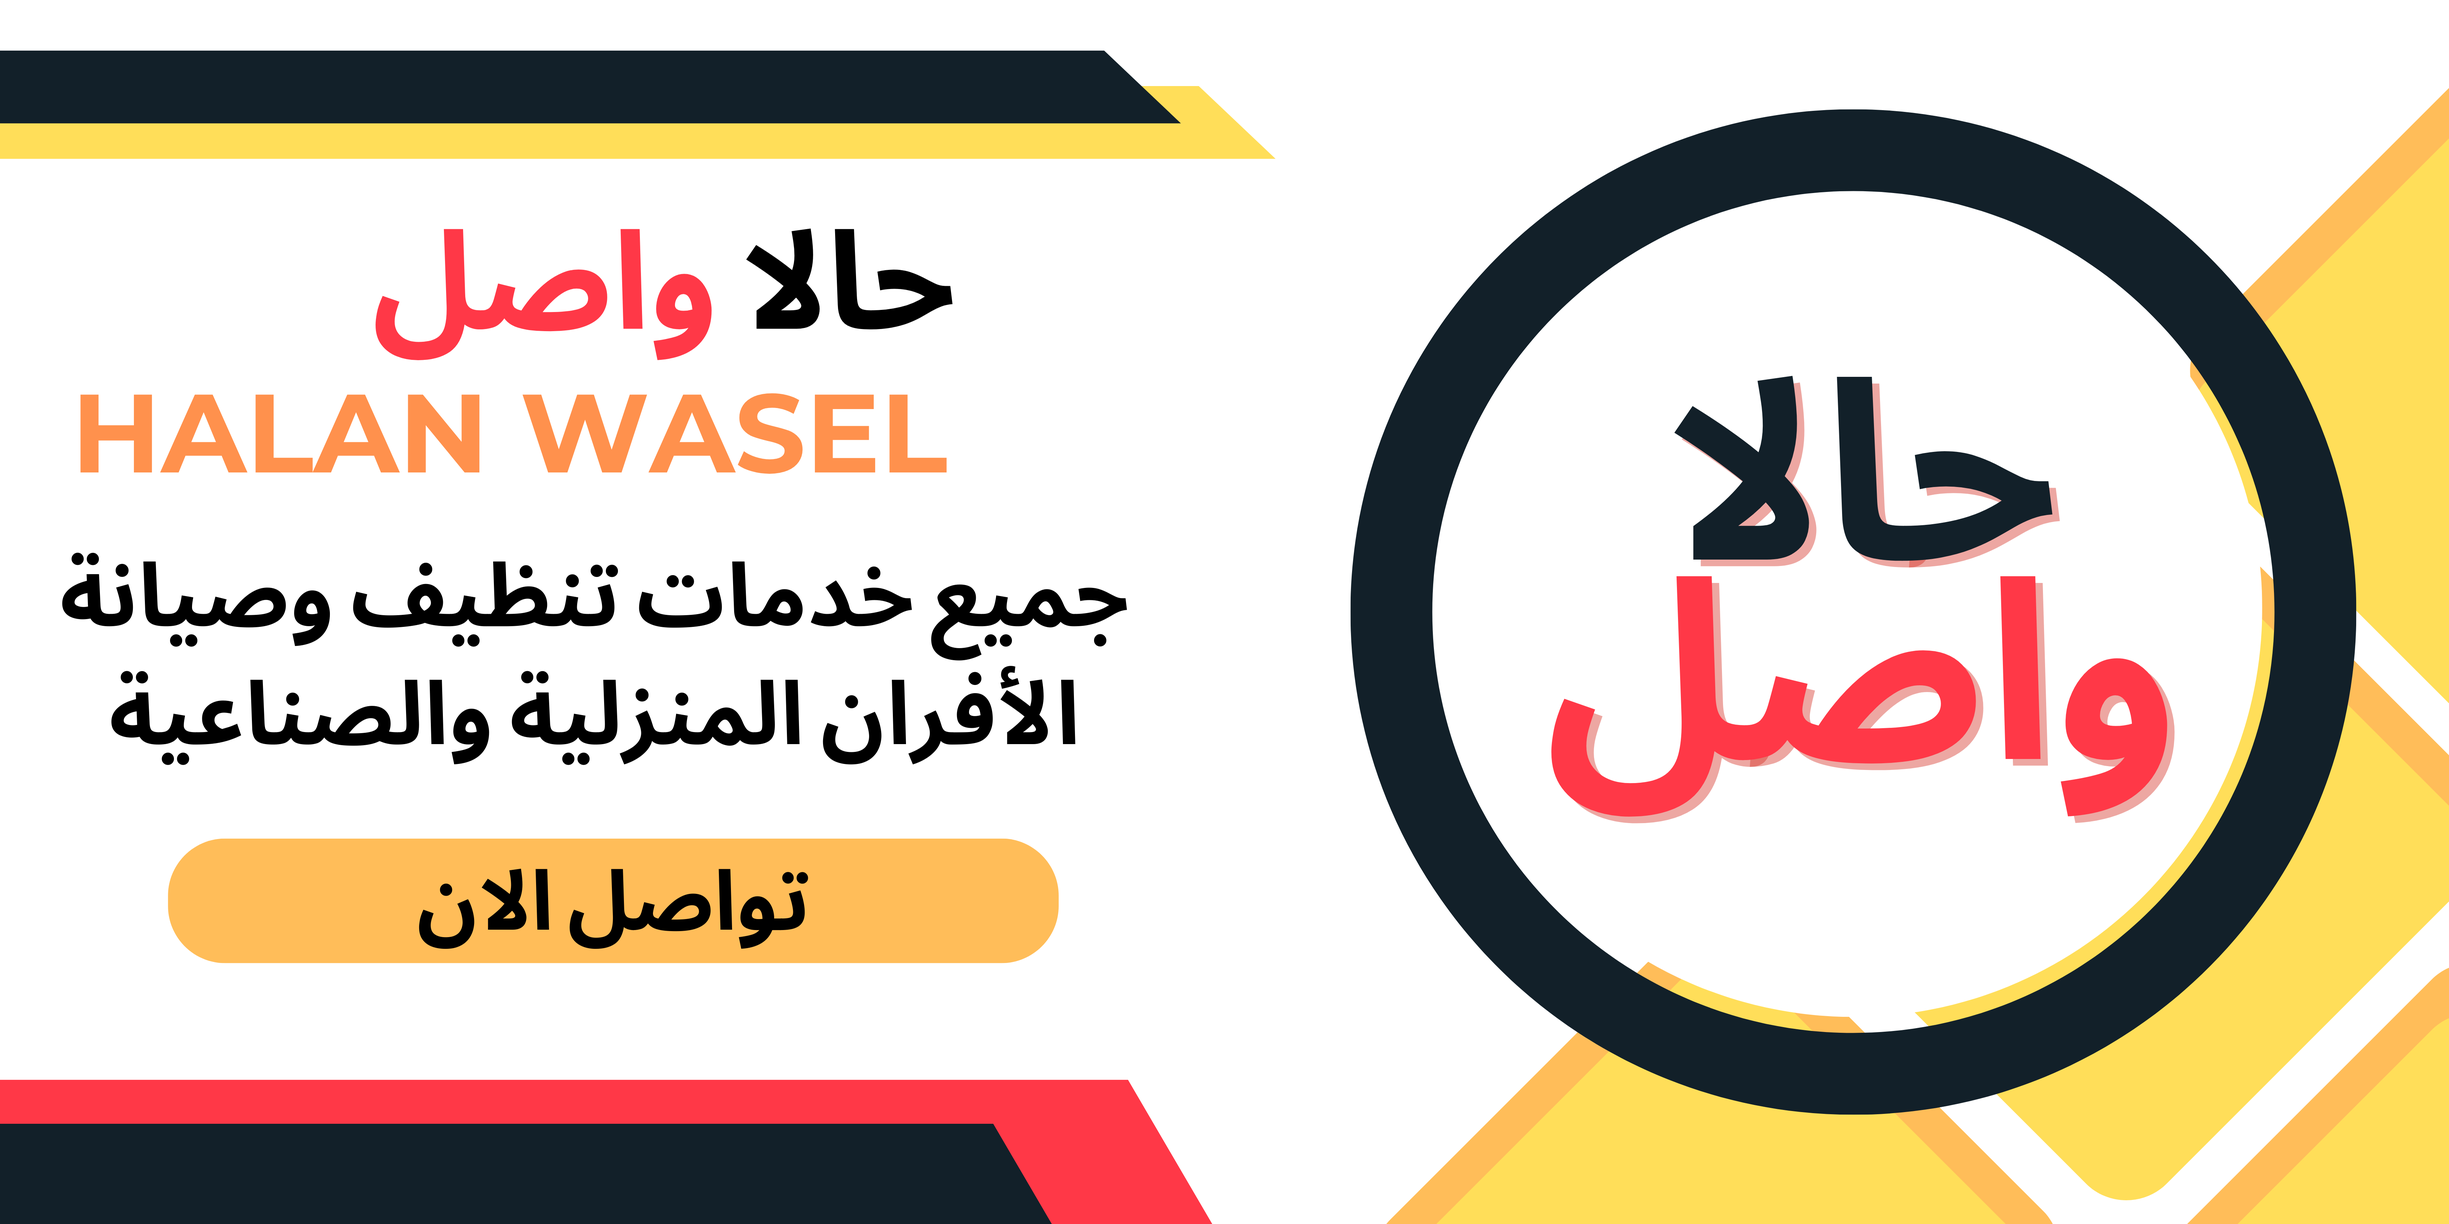
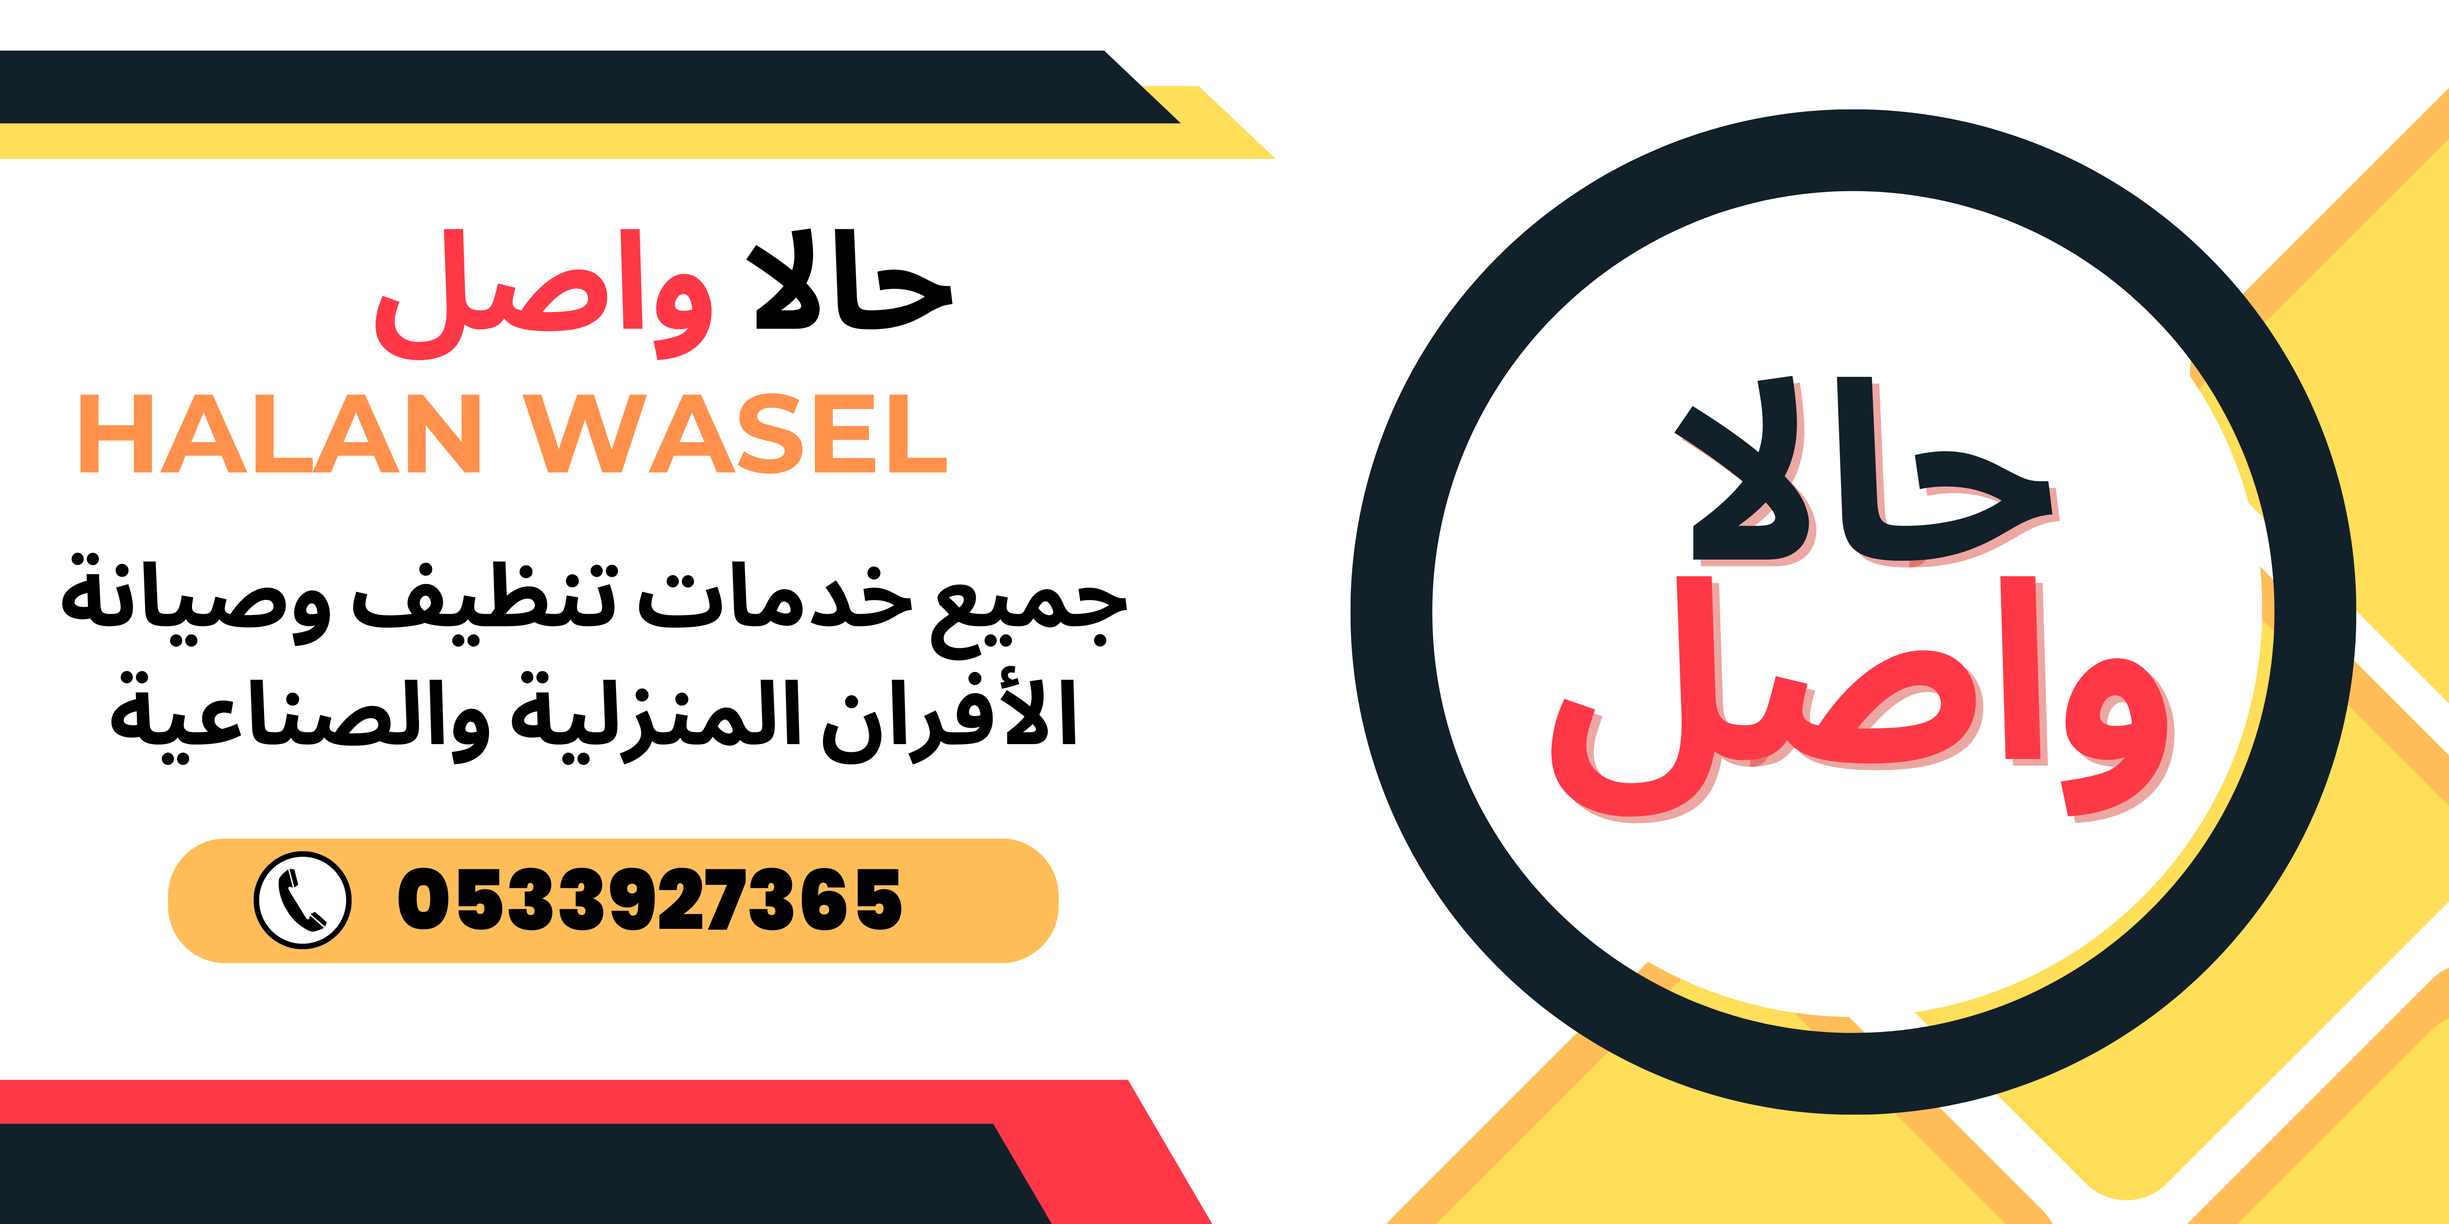
Add files via upload

Changed region(s): [[0.0938, 0.6875, 0.375, 0.7812]]

diff --git a/index.html b/index.html
@@ -25,10 +25,14 @@
     <script src="https://cdnjs.cloudflare.com/ajax/libs/gsap/3.11.4/CSSRulePlugin.min.js"></script>
     <script src="https://kit.fontawesome.com/3f5e60a4f0.js" crossorigin="anonymous"></script>
 
-
     <!-- Google Tag Manager -->
-  
-    <!-- End Google Tag Manager -->
+    <script>(function(w,d,s,l,i){w[l]=w[l]||[];w[l].push({'gtm.start':
+    new Date().getTime(),event:'gtm.js'});var f=d.getElementsByTagName(s)[0],
+    j=d.createElement(s),dl=l!='dataLayer'?'&l='+l:'';j.async=true;j.src=
+    'https://www.googletagmanager.com/gtm.js?id='+i+dl;f.parentNode.insertBefore(j,f);
+    })(window,document,'script','dataLayer','GTM-59XB4ZF');</script>
+    <!-- End Google Tag Manage -->
+
     <style>
         
         .nav-item a{
@@ -95,6 +99,34 @@
 
 </head>
 <body>
+
+    <!-- start icons -->
+    <a href="https://wa.me/+966533927365" target="_blank" style="position: fixed;top: 87%;right: 0px;transform: translate(-50%, -50%);cursor: pointer;z-index: 1;">
+        <i style="font-size: 60px;background: green;color: white;padding: 6px 10px;border-radius: 50%;" class="fa-brands fa-whatsapp"></i>
+    </a>
+
+    <a href="tel:+966533927365" target="_blank" style="width: 250px;
+    background: #9e11b5;
+    color: white;
+    font-weight: bold;
+    font-size: 30px;
+    padding: 0px 20px;
+    text-align: center;
+    position: fixed;
+    border-radius: 20px;
+    top: 95%;
+    right: -100px;
+    transform: translate(-50%, -50%);
+    cursor: pointer;
+    z-index: 1;
+    text-decoration: none;">
+    <i class="fa-solid fa-phone"></i>
+         اتصل بنا الان
+        
+    </a>
+
+    <!-- end icons -->
+
     
     <!-- Stat nav -->
     <div class="bg-white" style="position: fixed; z-index: 2; width: 100%; border-bottom: 1px solid rgba(128, 128, 128, 0.485);">
@@ -133,9 +165,11 @@
     <!-- End nav -->
 
     <div style="height: 60px;"></div>
-    <!-- start slider -->
-    <img style="width: 100%; margin-bottom: 20px; max-height: 800px;" src="./Main-Page-Folder/images/Banner.png" id="headerImg">
-    <!-- end slider -->
+    <!-- start banner -->
+    <a href="tel:+966533927365">
+        <img style="width: 100%; margin-bottom: 20px; max-height: 800px;" src="./Main-Page-Folder/images/Banner.png" id="headerImg">
+    </a>
+    <!-- end banner -->
 
     <!-- start section -->
 
@@ -163,64 +197,82 @@
 
         <div class="grid" >
 
-            <div class="cardPage" id="cardGif">
-                <i style="font-size: 45px;" class="fa-solid fa-soap"></i>
-                <h5>
-                    تنظيف الافران
-                </h5>
-                <p style="font-weight: bold;">
-                    يقوم فريق العمل بتنظيف الأفران من الداخل والخارج بما في ذلك إزالة الأوساخ والشحوم والروائح الكريهة 
-                </p>
-            </div>
+            <a href="https://wa.me/+966533927365" target="_blank" style="text-decoration: none; color: black;">
+                <div class="cardPage" id="cardGif">
+                    <i style="font-size: 45px;" class="fa-solid fa-soap"></i>
+                    <h5>
+                        تنظيف الافران
+                    </h5>
+                    <p style="font-weight: bold;">
+                        يقوم فريق العمل بتنظيف الأفران من الداخل والخارج بما في ذلك إزالة الأوساخ والشحوم والروائح الكريهة 
+                    </p>
+                </div>
+            </a>
 
-            <div class=".grid cardPage" id="cardGif">
-                <i style="font-size: 45px;" class="fa-sharp fa-solid fa-screwdriver-wrench"></i>
-                <h5>
-                    صيانة الأفران
-                </h5>
-                <p style="font-weight: bold;">
-                    يتم فحص الأفران وإجراء الصيانة اللازمة للحفاظ على أدائها الأمثل، ويتم ذلك بفحص العناصر السخانة والشبكات والأجزاء الأخرى لضمان أنها تعمل بكفاءة.
-                </p>
-            </div>
+            
+            <a href="https://wa.me/+966533927365" target="_blank" style="text-decoration: none; color: black;">
+                <div class=".grid cardPage" id="cardGif">
+                    <i style="font-size: 45px;" class="fa-sharp fa-solid fa-screwdriver-wrench"></i>
+                    <h5>
+                        صيانة الأفران
+                    </h5>
+                    <p style="font-weight: bold;">
+                        يتم فحص الأفران وإجراء الصيانة اللازمة للحفاظ على أدائها الأمثل، ويتم ذلك بفحص العناصر السخانة والشبكات والأجزاء الأخرى لضمان أنها تعمل بكفاءة.
+                    </p>
+                </div>
+            </a>
 
-            <div class=".grid cardPage" id="cardGif">
-                <i style="font-size: 45px;" class="fa-sharp fa-solid fa-screwdriver"></i>
-                <h5>
-                    إصلاح الأفران
-                </h5>
-                <p style="font-weight: bold;">
-                    يتم إصلاح الأفران التالفة أو المعطلة، ويشمل ذلك استبدال العناصر السخانة أو إصلاح الأجزاء المكسورة أو الضعيفة.
-                </p>
-            </div>
+            <a href="https://wa.me/+966533927365" target="_blank" style="text-decoration: none; color: black;">
+                <div class=".grid cardPage" id="cardGif">
+                    <i style="font-size: 45px;" class="fa-sharp fa-solid fa-screwdriver"></i>
+                    <h5>
+                        إصلاح الأفران
+                    </h5>
+                    <p style="font-weight: bold;">
+                        يتم إصلاح الأفران التالفة أو المعطلة، ويشمل ذلك استبدال العناصر السخانة أو إصلاح الأجزاء المكسورة أو الضعيفة.
+                    </p>
+                </div>
+            </a>
 
 
-            <div class=".grid cardPage" id="cardGif">
-                <i style="font-size: 45px;" class="fa-solid fa-taxi"></i>
-                <h5>
-                    خدمات الصيانة الدورية
-                </h5>
-                <p style="font-weight: bold;">
-                    تهدف هذه الخدمات إلى الحفاظ على أداء الأفران بشكل مستمر والتأكد من سلامتها وعدم تعرض المستخدمين لأي مخاطر.                </p>
-            </div>
 
-            <div class=".grid cardPage" id="cardGif">
-                <i style="font-size: 45px;" class="fa-solid fa-comment-medical"></i>
-                <h5>
-                    تقديم النصائح والإرشادات
-                </h5>
-                <p style="font-weight: bold;">
-                    مكن للشركة تقديم النصائح والإرشادات للعملاء حول كيفية الحفاظ على الأفران وتجنب المشاكل المحتملة في المستقبل.                </p>
-            </div>
+            <a href="https://wa.me/+966533927365" target="_blank" style="text-decoration: none; color: black;">
+                <div class=".grid cardPage" id="cardGif">
+                    <i style="font-size: 45px;" class="fa-solid fa-taxi"></i>
+                    <h5>
+                        خدمات الصيانة الدورية
+                    </h5>
+                    <p style="font-weight: bold;">
+                        تهدف هذه الخدمات إلى الحفاظ على أداء الأفران بشكل مستمر والتأكد من سلامتها وعدم تعرض المستخدمين لأي مخاطر.                </p>
+                </div>
+            </a>
+            
 
-            <div class=".grid cardPage" id="cardGif">
-                <i style="font-size: 45px;" class="fa-solid fa-ethernet"></i>
-                <h5>
-                    تركيب الأفران
-                </h5>
-                <p style="font-weight: bold;">
-                    تقوم الشركة بتركيب الأفران الجديدة وضمان أنها تعمل بشكل صحيح.
-                </p>
-            </div>
+            <a href="https://wa.me/+966533927365" target="_blank" style="text-decoration: none; color: black;">
+
+                <div class=".grid cardPage" id="cardGif">
+                    <i style="font-size: 45px;" class="fa-solid fa-comment-medical"></i>
+                    <h5>
+                        تقديم النصائح والإرشادات
+                    </h5>
+                    <p style="font-weight: bold;">
+                        مكن للشركة تقديم النصائح والإرشادات للعملاء حول كيفية الحفاظ على الأفران وتجنب المشاكل المحتملة في المستقبل.                </p>
+                </div>
+            </a>
+
+
+            <a href="https://wa.me/+966533927365" target="_blank" style="text-decoration: none; color: black;">
+
+                <div class=".grid cardPage" id="cardGif">
+                    <i style="font-size: 45px;" class="fa-solid fa-ethernet"></i>
+                    <h5>
+                        تركيب الأفران
+                    </h5>
+                    <p style="font-weight: bold;">
+                        تقوم الشركة بتركيب الأفران الجديدة وضمان أنها تعمل بشكل صحيح.
+                    </p>
+                </div>
+            </a>
 
         </div>
 
@@ -307,29 +359,41 @@
             <br>
 
             <div class="grid friends">
-                <div class="cardPage" style="padding: 10px!important;">
-                    <img src="./Main-Page-Folder/images/6.jpg" alt="img" class="icon" style=" width: 100%; min-height: 100px;">
-                </div>
+                <a href="https://wa.me/+966533927365" target="_blank" style="text-decoration: none; color: black;">
+                    <div class="cardPage" style="padding: 10px!important;">
+                        <img src="./Main-Page-Folder/images/6.jpg" alt="img" class="icon" style=" width: 100%; min-height: 100px;">
+                    </div>
+                </a>
     
-                <div class="cardPage" style="padding: 10px!important;">
-                    <img src="./Main-Page-Folder/images/2.webp" alt="img" class="icon" style="width: 100%; min-height: 100px;">
-                </div>
+                <a href="https://wa.me/+966533927365" target="_blank" style="text-decoration: none; color: black;">
+                    <div class="cardPage" style="padding: 10px!important;">
+                        <img src="./Main-Page-Folder/images/2.webp" alt="img" class="icon" style="width: 100%; min-height: 100px;">
+                    </div>
+                </a>
     
-                <div class="cardPage" style="padding: 10px!important;">
-                    <img src="./Main-Page-Folder/images/3.jpg" alt="img" class="icon" style="width: 100%; min-height: 100px;">
-                </div>
+                <a href="https://wa.me/+966533927365" target="_blank" style="text-decoration: none; color: black;">
+                    <div class="cardPage" style="padding: 10px!important;">
+                        <img src="./Main-Page-Folder/images/3.jpg" alt="img" class="icon" style="width: 100%; min-height: 100px;">
+                    </div>
+                </a>
     
-                <div class="cardPage" style="padding: 10px!important;">
-                    <img src="./Main-Page-Folder/images/4.jpg" alt="img" class="icon" style="width: 100%; min-height: 100px;">
-                </div>
+                <a href="https://wa.me/+966533927365" target="_blank" style="text-decoration: none; color: black;">
+                    <div class="cardPage" style="padding: 10px!important;">
+                        <img src="./Main-Page-Folder/images/4.jpg" alt="img" class="icon" style="width: 100%; min-height: 100px;">
+                    </div>
+                </a>
     
-                <div class="cardPage" style="padding: 10px!important;">
-                    <img src="./Main-Page-Folder/images/7.jpg"alt="img" class="icon" style="width: 100%; min-height: 100px;">
-                </div>
+                <a href="https://wa.me/+966533927365" target="_blank" style="text-decoration: none; color: black;">
+                    <div class="cardPage" style="padding: 10px!important;">
+                        <img src="./Main-Page-Folder/images/7.jpg"alt="img" class="icon" style="width: 100%; min-height: 100px;">
+                    </div>
+                </a>
     
-                <div class="cardPage" style="padding: 10px!important;">
-                    <img src="./Main-Page-Folder/images/8.jpg" alt="img" class="icon" style="width: 100%; min-height: 100px;">
-                </div>
+                <a href="https://wa.me/+966533927365" target="_blank" style="text-decoration: none; color: black;">
+                    <div class="cardPage" style="padding: 10px!important;">
+                        <img src="./Main-Page-Folder/images/8.jpg" alt="img" class="icon" style="width: 100%; min-height: 100px;">
+                    </div>
+                </a>
     
             </div>
     
@@ -442,6 +506,16 @@
 
     
 </body>
+
+<!-- Google tag (gtag.js) -->
+<script async src="https://www.googletagmanager.com/gtag/js?id=G-5M6Q9CK1B1"></script>
+<script>
+window.dataLayer = window.dataLayer || [];
+function gtag(){dataLayer.push(arguments);}
+gtag('js', new Date());
+
+gtag('config', 'G-5M6Q9CK1B1');
+</script>
 <!-- start link js -->
 <script src="https://code.jquery.com/jquery-3.3.1.slim.min.js" integrity="sha384-q8i/X+965DzO0rT7abK41JStQIAqVgRVzpbzo5smXKp4YfRvH+8abtTE1Pi6jizo" crossorigin="anonymous"></script>
 <script src="./cdn/popper.min.js" integrity="sha384-ZMP7rVo3mIykV+2+9J3UJ46jBk0WLaUAdn689aCwoqbBJiSnjAK/l8WvCWPIPm49" crossorigin="anonymous"></script>

diff --git a/Main-Page-Folder/main.js b/Main-Page-Folder/main.js
@@ -1,0 +1,10 @@
+
+
+
+// window.onclick=(e)=>{
+//     console.log(e.target)
+//     if([...e.target.classList].includes("cardPage")){
+//         console.log(e)
+//     }
+    
+// }
